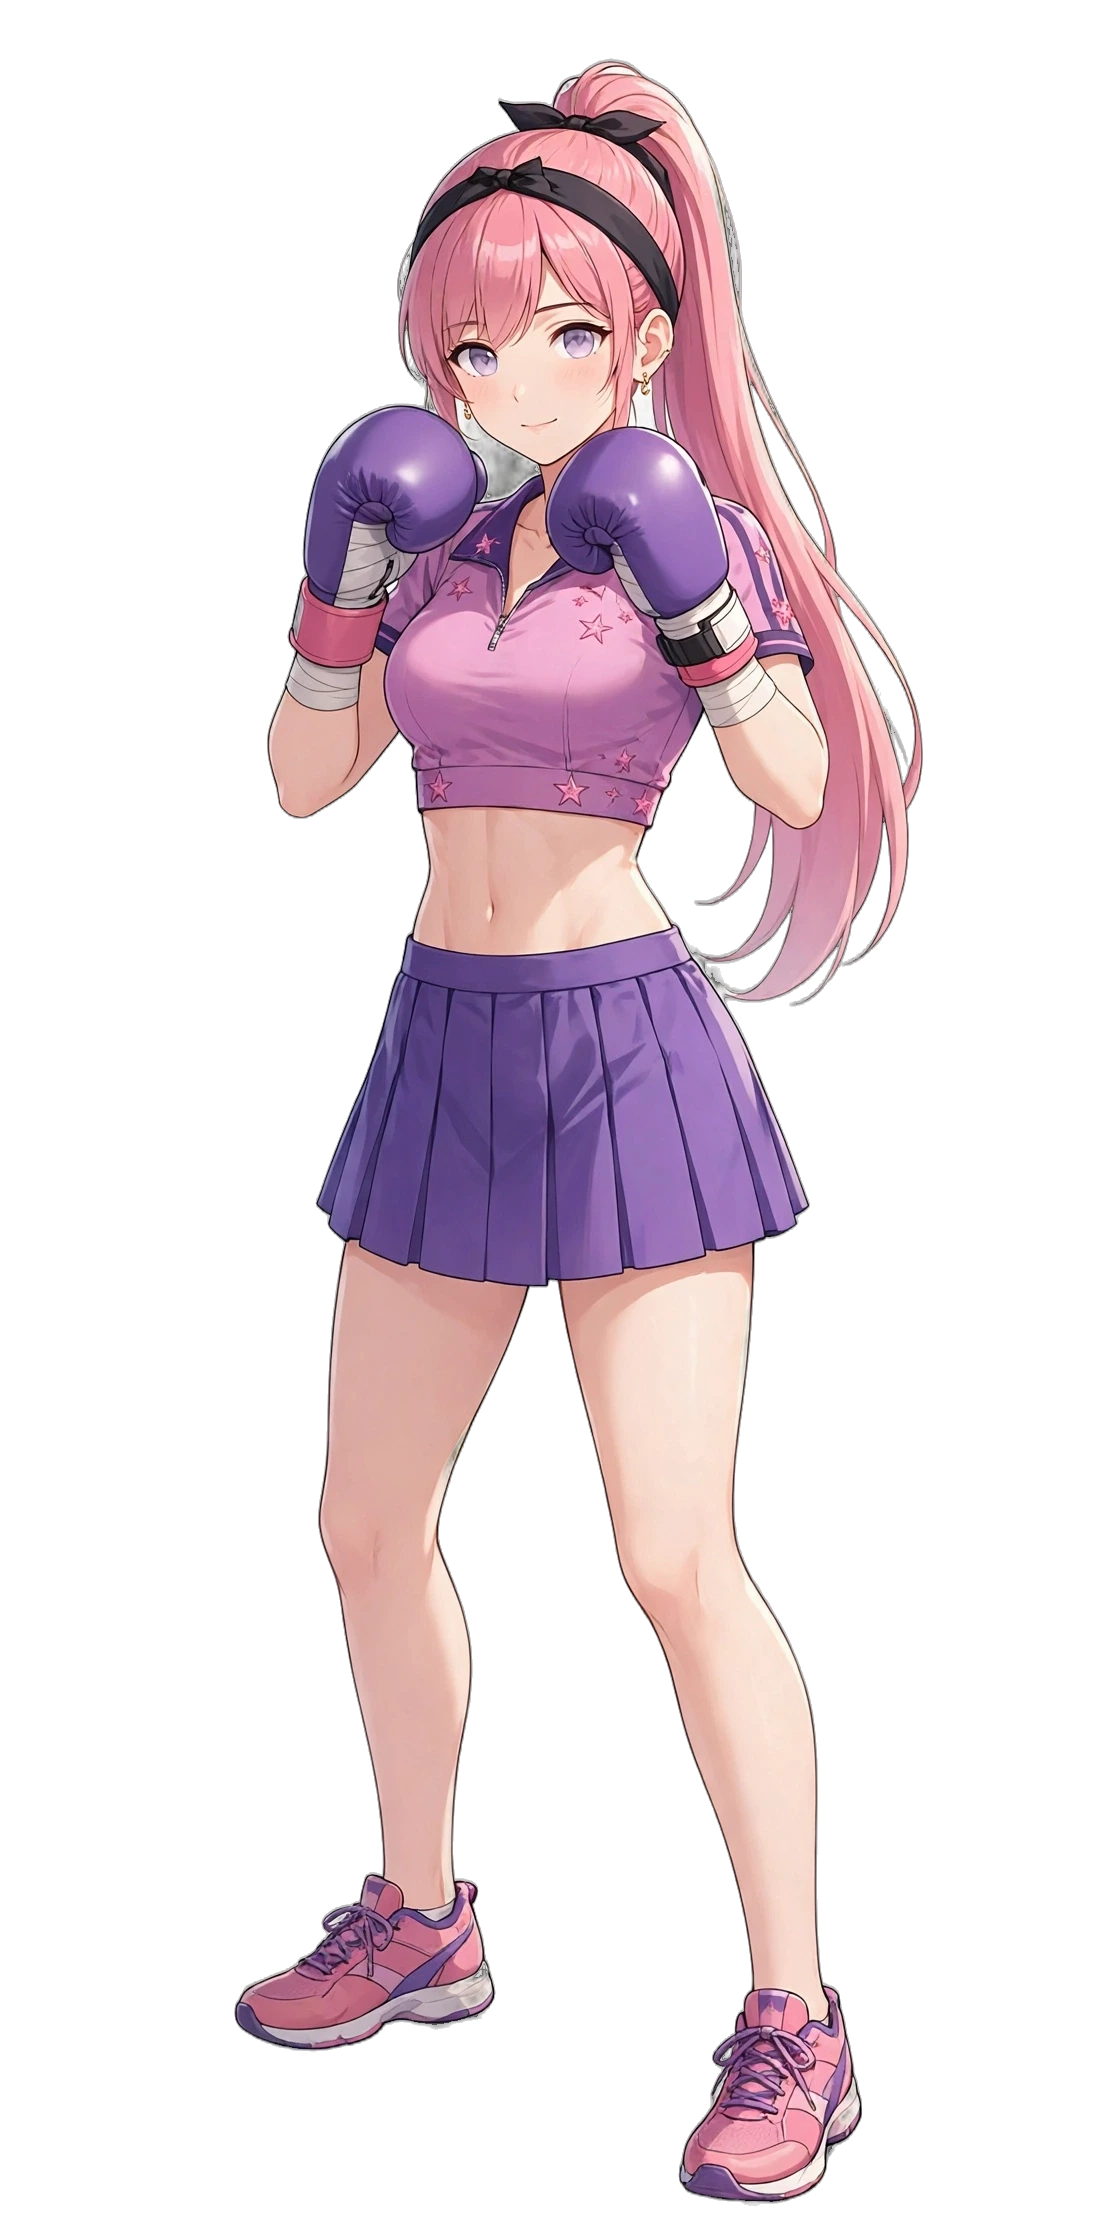
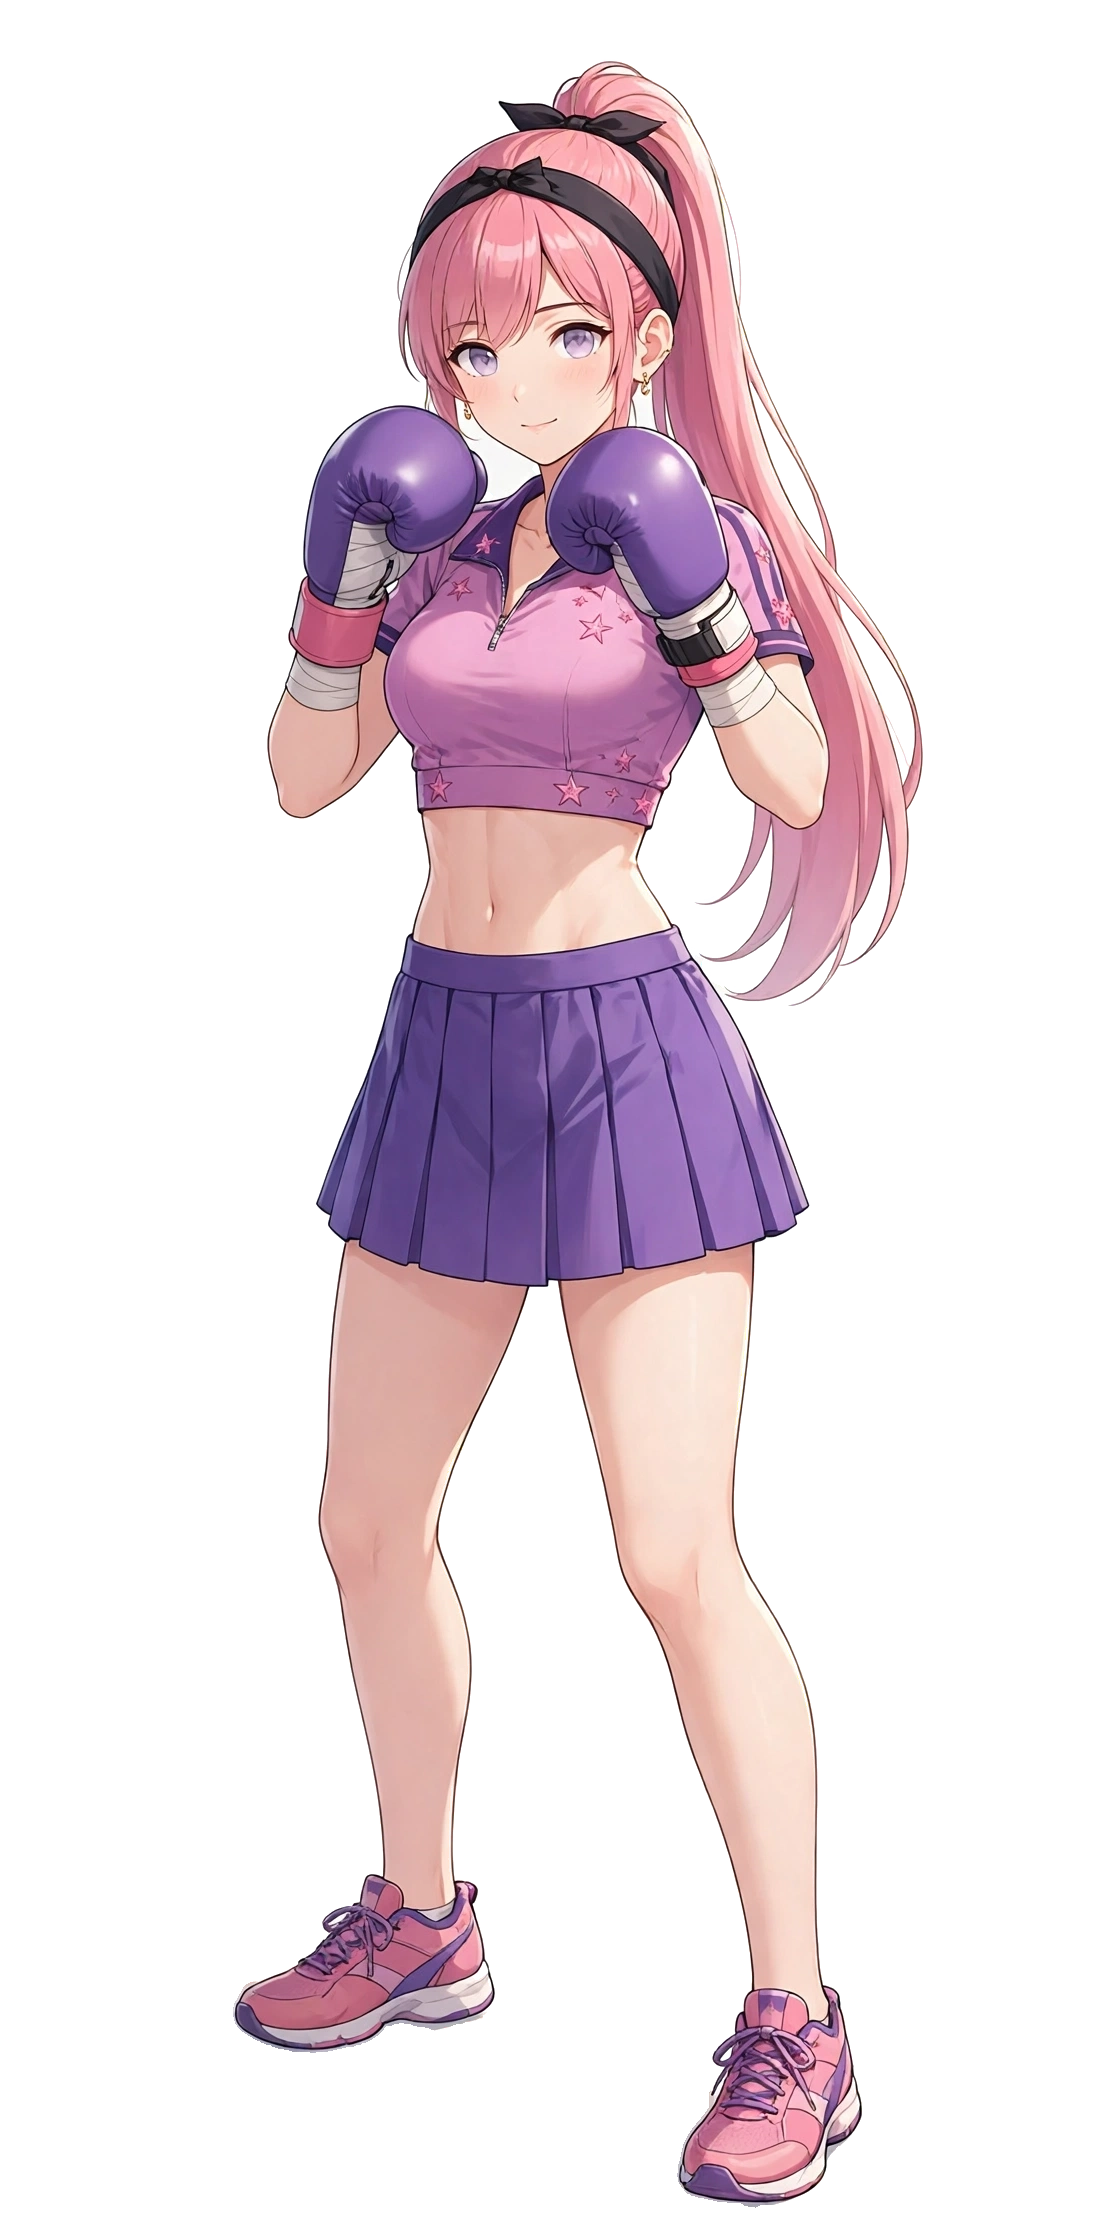
资源：BGM 来源 CREDITS、中枢立绘去灰边、状态图标 4 个；battle_engine 头注对齐方案 B；需求单 A1/A2/A5 标已提交

diff --git a/godot/tools/build_stat_icons.py b/godot/tools/build_stat_icons.py
@@ -1,0 +1,153 @@
+#!/usr/bin/env python3
+"""Godot 中枢状态图标 4 个（A5）— 与 build_ui_kit.py 同管线同风格（PIL 超采样）。
+文件：stat_mood.png（心态）/ stat_influence.png（影响力）/ stat_fatigue.png（疲劳）/ stat_injury.png（伤病）
+输出：~/workspace/game/boxing/godot/assets/ui/（128x128，薰衣草徽章底＋紫环，与 attr_*.png 并排一致）
+公共绘制函数（badge/glyph_base/star 等）与 build_ui_kit.py 保持同实现，保证风格同源。
+"""
+from PIL import Image, ImageDraw, ImageFilter, ImageChops
+import math, os, itertools
+
+OUT = os.path.expanduser("~/workspace/game/boxing/godot/assets/ui")
+os.makedirs(OUT, exist_ok=True)
+
+PINK   = (242, 123, 181)
+PINK_L = (255, 174, 214)
+PURPLE = (123, 75, 181)
+DEEP   = (74, 42, 122)
+DEEPER = (42, 22, 80)
+LAV    = (201, 167, 235)
+LAV_L  = (226, 205, 250)
+GOLD   = (245, 197, 66)
+GOLD_L = (255, 224, 130)
+WHITE  = (255, 255, 255)
+INK    = (46, 24, 84)
+
+def lerp(a, b, t):
+    return tuple(int(a[i] + (b[i] - a[i]) * t) for i in range(3))
+
+def vgrad(size, top, bot):
+    w, h = size
+    img = Image.new("RGB", size)
+    d = ImageDraw.Draw(img)
+    for y in range(h):
+        d.line([(0, y), (w, y)], fill=lerp(top, bot, y / max(1, h - 1)))
+    return img
+
+def overlay(base, draw_fn):
+    layer = Image.new("RGBA", base.size, (0, 0, 0, 0))
+    draw_fn(ImageDraw.Draw(layer))
+    base.alpha_composite(layer)
+    return base
+
+ISS = 4
+ISZ = 128
+C = ISZ * ISS // 2
+
+def badge():
+    S = ISZ * ISS
+    img = Image.new("RGBA", (S, S), (0, 0, 0, 0))
+    d = ImageDraw.Draw(img)
+    R = 200
+    for i in range(24, 0, -1):
+        t = i / 24
+        col = lerp((255, 240, 252), (196, 160, 235), t)
+        rr = R * i // 24
+        d.ellipse([C - rr, C - rr, C + rr, C + rr], fill=col + (255,))
+    d.ellipse([C - R, C - R, C + R, C + R], outline=PURPLE + (255,), width=9)
+    overlay(img, lambda od: od.ellipse([C - R + 14, C - R + 14, C + R - 14, C + R - 14],
+                                       outline=(255, 255, 255, 150), width=4))
+    overlay(img, lambda od: od.ellipse([C - 120, C - 168, C + 120, C - 58],
+                                       fill=(255, 255, 255, 52)))
+    return img
+
+def glyph_base(draw_silhouette, grad_top, grad_bot):
+    S = ISZ * ISS
+    sil = Image.new("L", (S, S), 0)
+    draw_silhouette(ImageDraw.Draw(sil), 255)
+    grow = Image.new("L", (S, S), 0)
+    r = 9
+    for dx, dy in itertools.product(range(-r, r + 1, 3), repeat=2):
+        if dx * dx + dy * dy <= r * r:
+            tmp = Image.new("L", (S, S), 0)
+            tmp.paste(sil, (dx, dy))
+            grow = ImageChops.lighter(grow, tmp)
+    out = Image.new("RGBA", (S, S), (0, 0, 0, 0))
+    om = Image.new("RGBA", (S, S), INK + (255,))
+    out.paste(om, (0, 0), grow)
+    grad = vgrad((S, S), grad_top, grad_bot).convert("RGBA")
+    out.paste(grad, (0, 0), sil)
+    return out
+
+def star(d, cx, cy, r, fill):
+    pts = []
+    for i in range(8):
+        ang = math.pi / 4 * i
+        rr = r if i % 2 == 0 else r * 0.40
+        pts.append((cx + rr * math.cos(ang - math.pi / 2), cy + rr * math.sin(ang - math.pi / 2)))
+    d.polygon(pts, fill=fill)
+
+def finish(img, name):
+    img = img.resize((ISZ, ISZ), Image.LANCZOS)
+    img.save(os.path.join(OUT, name))
+
+# ---------------------------------------------------------------- 心态 mood：笑脸
+def face_sil(d, col, cx=0, cy=0, s=1.0):
+    d.ellipse([C + (cx - 104) * s, C + (cy - 104) * s, C + (cx + 104) * s, C + (cy + 104) * s], fill=col)
+img = badge()
+img.alpha_composite(glyph_base(lambda d, col: face_sil(d, col, 0, 2, 1.0), PINK_L, (240, 110, 168)))
+d = ImageDraw.Draw(img)
+# 闭眼笑弧（^ ^）+ 微笑嘴
+for ex in (-46, 46):
+    d.arc([C + ex - 26, C - 38, C + ex + 26, C + 14], 180, 360, fill=INK + (255,), width=11)
+d.arc([C - 38, C - 6, C + 38, C + 62], 20, 160, fill=INK + (255,), width=11)
+for cx in (-72, 72):  # 腮红
+    overlay(img, lambda od, cx=cx: od.ellipse([C + cx - 20, C + 16, C + cx + 20, C + 38],
+                                              fill=(255, 90, 150, 90)))
+d = ImageDraw.Draw(img)
+star(d, C + 118, C - 118, 17, GOLD + (255,))
+finish(img, "stat_mood.png")
+
+# ---------------------------------------------------------------- 影响力 influence：金星 + 涟漪环
+img = badge()
+d = ImageDraw.Draw(img)
+for r, col, w in [(146, PURPLE + (170,), 9), (112, PINK + (200,), 8)]:
+    d.ellipse([C - r, C - r, C + r, C + r], outline=col, width=w)
+star(d, C, C, 84, GOLD + (255,))
+star(d, C, C, 48, GOLD_L + (255,))
+d.ellipse([C - 9, C - 9, C + 9, C + 9], fill=(232, 74, 140, 255))
+finish(img, "stat_influence.png")
+
+# ---------------------------------------------------------------- 疲劳 fatigue：低电量电池
+def battery_sil(d, col, cx=0, cy=0, s=1.0):
+    d.rounded_rectangle([C + (cx - 118) * s, C + (cy - 56) * s, C + (cx + 82) * s, C + (cy + 56) * s],
+                        18 * s, fill=col)
+    d.rounded_rectangle([C + (cx + 92) * s, C + (cy - 24) * s, C + (cx + 118) * s, C + (cy + 24) * s],
+                        8 * s, fill=col)
+img = badge()
+img.alpha_composite(glyph_base(lambda d, col: battery_sil(d, col, -2, 0, 1.0), LAV_L, PURPLE))
+d = ImageDraw.Draw(img)
+# 内腔 + 三格电量（仅第一格亮粉，其余空）
+d.rounded_rectangle([C - 102, C - 40, C + 66, C + 40], 10, fill=(238, 226, 252, 255))
+d.rounded_rectangle([C - 94, C - 31, C - 46, C + 31], 7, fill=(232, 74, 140, 255))
+for x0 in (-34, 14):
+    d.rounded_rectangle([C + x0, C - 31, C + x0 + 44, C + 31], 7, outline=(178, 150, 215, 255), width=5)
+# 电池上方一颗下坠小星（电量告急的疲惫感）
+star(d, C + 96, C - 108, 15, PURPLE + (200,))
+finish(img, "stat_fatigue.png")
+
+# ---------------------------------------------------------------- 伤病 injury：医疗十字 + 绷带点
+def cross_sil(d, col, cx=0, cy=0, s=1.0):
+    d.rounded_rectangle([C + (cx - 34) * s, C + (cy - 106) * s, C + (cx + 34) * s, C + (cy + 106) * s],
+                        14 * s, fill=col)
+    d.rounded_rectangle([C + (cx - 106) * s, C + (cy - 34) * s, C + (cx + 106) * s, C + (cy + 34) * s],
+                        14 * s, fill=col)
+img = badge()
+img.alpha_composite(glyph_base(lambda d, col: cross_sil(d, col, 0, 0, 1.0), (255, 138, 168), (226, 62, 112)))
+d = ImageDraw.Draw(img)
+# 绷带质感：横臂两颗小白点 + 中心垫点
+for x in (-72, 72):
+    d.ellipse([C + x - 9, C - 9, C + x + 9, C + 9], fill=WHITE + (220,))
+d.ellipse([C - 11, C - 11, C + 11, C + 11], fill=WHITE + (235,))
+finish(img, "stat_injury.png")
+
+print("done:", [f for f in sorted(os.listdir(OUT)) if f.startswith("stat_")])

diff --git a/godot/assets/audio/CREDITS.md b/godot/assets/audio/CREDITS.md
@@ -1,51 +1,21 @@
-# 音效来源
+# 音频来源
 
-## 游戏里实际使用的
-| 游戏音效 | 文件 | 由什么做成 |
+## BGM
+
+三首均为本项目自有：曲目数据（音符表＋乐器参数）出自网页版 `web/js/audio.js` 的 `BGM_TRACKS`（本项目过程化作曲，无外部文件），2026-11-21 由 muse 按该数据离线合成渲染为 ogg（数学无缝循环、峰值 −3dB）。未使用任何第三方采样、现成曲目或外部素材，无第三方授权负担。
+
+| 文件 | 曲目 | 来源 | 作者 | 授权 |
+|---|---|---|---|---|
+| `bgm_title.ogg` | 标题曲（96 BPM，Cmaj7–Am7–Fmaj7–G，时长 80.0s） | 本项目自有：`web/js/audio.js` `BGM_TRACKS.title` 音符数据离线渲染 | 项目组（muse 合成渲染） | 项目自有 |
+| `bgm_daily.ogg` | 日常曲（76 BPM，Am7–Fmaj7–Cmaj7–G，时长 75.8s） | 本项目自有：`web/js/audio.js` `BGM_TRACKS.daily` 音符数据离线渲染 | 项目组（muse 合成渲染） | 项目自有 |
+| `bgm_battle.ogg` | 战斗曲（140 BPM，Dm–B♭–F–C，时长 82.3s） | 本项目自有：`web/js/audio.js` `BGM_TRACKS.battle` 音符数据离线渲染 | 项目组（muse 合成渲染） | 项目自有 |
+
+## 音效
+
+| 文件 | 来源 | 授权 |
 |---|---|---|
-| 刺拳 / 重拳 / 击腹 | `designed_person/*.wav` | 「打在人身上」实录为主体 + 拳套实录最前 9ms 皮革声 + 合成低频与肉感层（`godot/tools/design_punches.py person`） |
-| 格挡 | `designed/block_*.wav` | 速度球拳套实录 + 合成层（`design_punches.py`） |
-| 开场铃 / 终场铃 | `bell/bell_start.wav`、`bell/bell_end.wav` | TRP 真实拳击铃实录；开场 = 单响，终场 = 同一只铃三下真实敲击叠成「铛-铛-铛」；修音：70Hz 以下缓坡去轰鸣、尾部噪声门、短场馆混响、统一音量，不变调（`godot/tools/make_bells.py`） |
-| 倒地 | `kenney/*.ogg` | Kenney Impact Sounds 原样 |
-| 挥空 | `air_cloth/jacket_00/03/04/07/11/13.wav`、`air_cloth/tshirt_00/07/33.wav` | 衣物挥动实录切出：Nox_Sound 夹克 6 条 + Soundholder T恤 3 条；去 90Hz 以下、淡入淡出、统一音量（`godot/tools/make_air_crowd.py cloth`）。`air/whoosh_*`（竹竿版）已不再使用 |
-| 观众（随局势变化，实时战斗原型用） | `crowd_dyn/bed_low.wav`、`bed_high.wav`、`bed_roar.wav`、`ooh_0~4.wav`、`roar_0~1.wav` | 第二版（去掉掌声）：只取「无掌声」检测通过的段——三条可循环底层（MSG 实录 25:11 低声嘈杂、8:11 激动呼喊、8:01 持续吼叫，首尾交叉淡化）＋「噢」5 声（从 MSG / craigsmith 拳击现场呼喊的无掌声吼叫里切片，塑成冲上来再落下的形状）＋爆发 2 段（MSG 7:25、craigsmith 拳击现场 0:23）；去 70~90Hz 以下、统一响度，不变调（`godot/tools/make_crowd_layers.py`）。参照：真实拳击 KO 现场看台录像实测，全程无掌声、KO 后持续高位 20 秒以上 |
-| 观众（旧，回合制版中枢 / 结算用） | `crowd/crowd_win.wav` | FoolBoyMedia 获胜欢呼实录取最响的 3.2 秒，去 80Hz 以下、淡入淡出（另两段 `crowd_arena`/`crowd_fight` 保留未用） |
+| `kenney/*.ogg` | Kenney「Impact Sounds」1.0（https://kenney.nl/assets/impact-sounds，2026-11-21 从官方页面下载） | CC0 1.0（公有领域，可商用，署名非必须；授权原文见 `kenney/License.txt`） |
+| `*.wav` | 本项目原创合成（`godot/tools/gen_sfx.py` 生成） | 本项目自有 |
 
-## 背景音乐（BGM）
-| 场景 | 文件 | 来源 |
-|---|---|---|
-| 标题 | `bgm_title.ogg` | muse 提供（2026-11-21） |
-| 日常中枢 | `bgm_daily.ogg` | muse 提供 |
-| 比赛 | `bgm_battle.ogg` | muse 提供 |
-
-**来源与授权待确认**：文件内无标签（仅 libvorbis 编码信息），仓库里也没有出处说明。发布前须由 muse 补上作者 / 链接 / 许可证；若无法确认，换成可查证的 CC0 曲目。游戏内音量 −14dB，场景切换 0.8 秒交叉淡化、循环播放。
-
-## 需要署名的素材（CC BY 3.0）——游戏致谢 / 发布页必须保留
-**"swipes and whooshes tshirt fast and short swings"** by **Soundholder** — https://freesound.org/people/Soundholder/sounds/425856/ — licensed under CC BY 3.0 (https://creativecommons.org/licenses/by/3.0/). 改动：切成单次挥动、去 90Hz 以下、淡入淡出、统一音量。
-
-## 其余素材来源与授权（CC0 1.0，可商用，不要求署名）
-| 来源 | 作者 | 链接 |
-|---|---|---|
-| Foley_Clothes_Jacket_Whoosh_Sequence | Nox_Sound | https://freesound.org/people/Nox_Sound/sounds/495390/ |
-| Face Punch, Body Impact, 4x | Kinoton | https://freesound.org/people/Kinoton/sounds/503277/ |
-| Power Kick, Body Impact, 7x | Kinoton | https://freesound.org/people/Kinoton/sounds/586841/ |
-| Punching Dough | qubodup | https://freesound.org/people/qubodup/sounds/172489/ |
-| boxing glove punches big various | kyles | https://freesound.org/people/kyles/sounds/637255/ |
-| Punching Bag | aidansamuel | https://freesound.org/people/aidansamuel/sounds/540131/ |
-| boxing speed bag practice | 21100495 | https://freesound.org/people/21100495/sounds/655326/ |
-| 180820 Boxing bell, various rings dings pulses close distant, Soulpepper TORONTO | TRP | https://freesound.org/people/TRP/sounds/571096/ |
-| Short Whoosh, 13x | Kinoton | https://freesound.org/people/Kinoton/sounds/427979/ |
-| Swish 5 | ihitokage | https://freesound.org/people/ihitokage/sounds/395368/ |
-| Crowd Cheer | FoolBoyMedia | https://freesound.org/people/FoolBoyMedia/sounds/397434/ |
-| Madison Square Garden New York Rangers Atmosphere 2010 | nyseagull | https://freesound.org/people/nyseagull/sounds/398258/ |
-| G29-44-Fight Crowd Yelling | craigsmith | https://freesound.org/people/craigsmith/sounds/438404/ |
-| S12-01 Crowd reactions; oohs; ahh; cheering; laughing; moderate emotion; exterior（已下载，第二版起不再使用：含鼓掌和笑声） | craigsmith | https://freesound.org/people/craigsmith/sounds/675056/ |
-| crowd large cheer arena stadium hockey game Montreal | kyles | https://freesound.org/people/kyles/sounds/629884/ |
-| R07-27-Sporting Event with Steady Cheers | craigsmith | https://freesound.org/people/craigsmith/sounds/486214/ |
-| Impact Sounds 1.0 | Kenney | https://kenney.nl/assets/impact-sounds（原文 `kenney/License.txt`） |
-
-另下载但未进游戏：Face/Body Being Punched、Face Being Punched 2（elynch0901）、Punch in the face（Huminaatio）、Punches/hits（Wigglesworth）、G39-09-Boxing Fight Bell（craigsmith），均为 CC0。
-`freesound/*.wav` 是上一版（直接用实录切片），保留作对照，游戏已不再引用。
-
-处理原则：实录**不变调**（用户反馈变调像加滤镜）；只做裁剪、尾部淡出去底噪、11kHz 以上缓坡去嘶声、4kHz 以上约 −3dB 缓坡、轻限幅；分量来自叠加层。原始下载在仓库外 `D:\gamemake\third_party_dl\`，不入仓库。
-自愿致谢：Kinoton、qubodup、kyles、aidansamuel、21100495（freesound.org），Kenney（www.kenney.nl）。
+游戏内用法：打击、格挡、倒地、回合铃优先用 Kenney 真实录音（每次随机变体），挥空和观众用合成版；录音缺失时自动退回合成版。
+致谢：Sound effects by Kenney (www.kenney.nl).

diff --git a/docs/process/ASSET_REQUESTS.md b/docs/process/ASSET_REQUESTS.md
@@ -7,11 +7,11 @@
 
 | # | 内容 | 规格 | 放到 | 验收 | 状态 |
 |---|---|---|---|---|---|
-| A1 | BGM 三首的来源与许可证 | 作者、链接、许可证名 | `godot/assets/audio/CREDITS.md` BGM 表 | 能查证 | 待做 |
-| A2 | 中枢立绘去灰边 | 透明底，发梢 / 肩膀无灰色光晕 | `godot/assets/ui/hub_me.webp` | 深色底上无光晕 | 待做 |
+| A1 | BGM 三首的来源与许可证 | 作者、链接、许可证名 | `godot/assets/audio/CREDITS.md` BGM 表 | 能查证 | 已提交 |
+| A2 | 中枢立绘去灰边 | 透明底，发梢 / 肩膀无灰色光晕 | `godot/assets/ui/hub_me.webp` | 深色底上无光晕 | 已提交 |
 | A3 | 试点用 2D 正面对手（林小葵） | 12 张：待机 ×2、刺 / 直 / 摆 / 上勾 / 击腹、格挡、打脸受击、打腹受击、踉跄、倒地；同画布 768×1024 透明 PNG，脚底基线固定 | `godot/assets/fighters_front/linxiaokui/` | 连播不跳、头部高度一致 | 待做（视角已定为背后；等 2D/3D 试点开工） |
 | A4 | 试点用 2D 背面主角 | 同 A3 规格，背面视角 | `godot/assets/fighters_back/me/` | 同上 | 待做（视角已定为背后；等 2D/3D 试点开工） |
-| A5 | 状态图标 4 个 | 心态、影响力、疲劳、伤病；128px 徽章风格，同 UI 素材套 | `godot/assets/ui/stat_*.png` | 与 attr_* 并排风格一致 | 待做 |
+| A5 | 状态图标 4 个 | 心态、影响力、疲劳、伤病；128px 徽章风格，同 UI 素材套 | `godot/assets/ui/stat_*.png` | 与 attr_* 并排风格一致 | 已提交 |
 
 ## 之前的需求（来自 `../playtests/GODOT_PLAYTEST_20261121.md` §4）
 

diff --git a/godot/assets/ui/UI_KIT_NOTES.md b/godot/assets/ui/UI_KIT_NOTES.md
@@ -26,7 +26,14 @@
 | attr_defense.png | defense | 防守技术 |
 | attr_technique.png | technique | 技术 |
 
-注：中枢信息行里的心态/影响力/疲劳/伤病是状态值、不在 ATTR_KEYS 内，本套未出图标（如需可按同风格补）。
+注：中枢信息行里的心态/影响力/疲劳/伤病是状态值、不在 ATTR_KEYS 内。已于 2026-11-25 按同风格补齐（需求单 A5），生成脚本 `godot/tools/build_stat_icons.py`（与本套共用 badge/glyph 管线）：
+| 文件 | 状态 | 图形 |
+|---|---|---|
+| stat_mood.png | 心态 | 粉色笑脸（闭眼笑弧＋腮红＋金星点缀） |
+| stat_influence.png | 影响力 | 金色四角星＋紫/粉涟漪环 |
+| stat_fatigue.png | 疲劳 | 低电量电池（仅第一格亮粉） |
+| stat_injury.png | 伤病 | 医疗十字＋绷带白点 |
+自检联系表：`research/godot_rig/ui_kit_check/stat_contact_dark.png`、`stat_contact_light.png`（与 attr 图标并排）。
 
 ## 拳种图标（128×128，同徽章风格，金色轨迹线区分拳路）
 | 文件 | 拳种键（data/punches.json） | 轨迹 |
